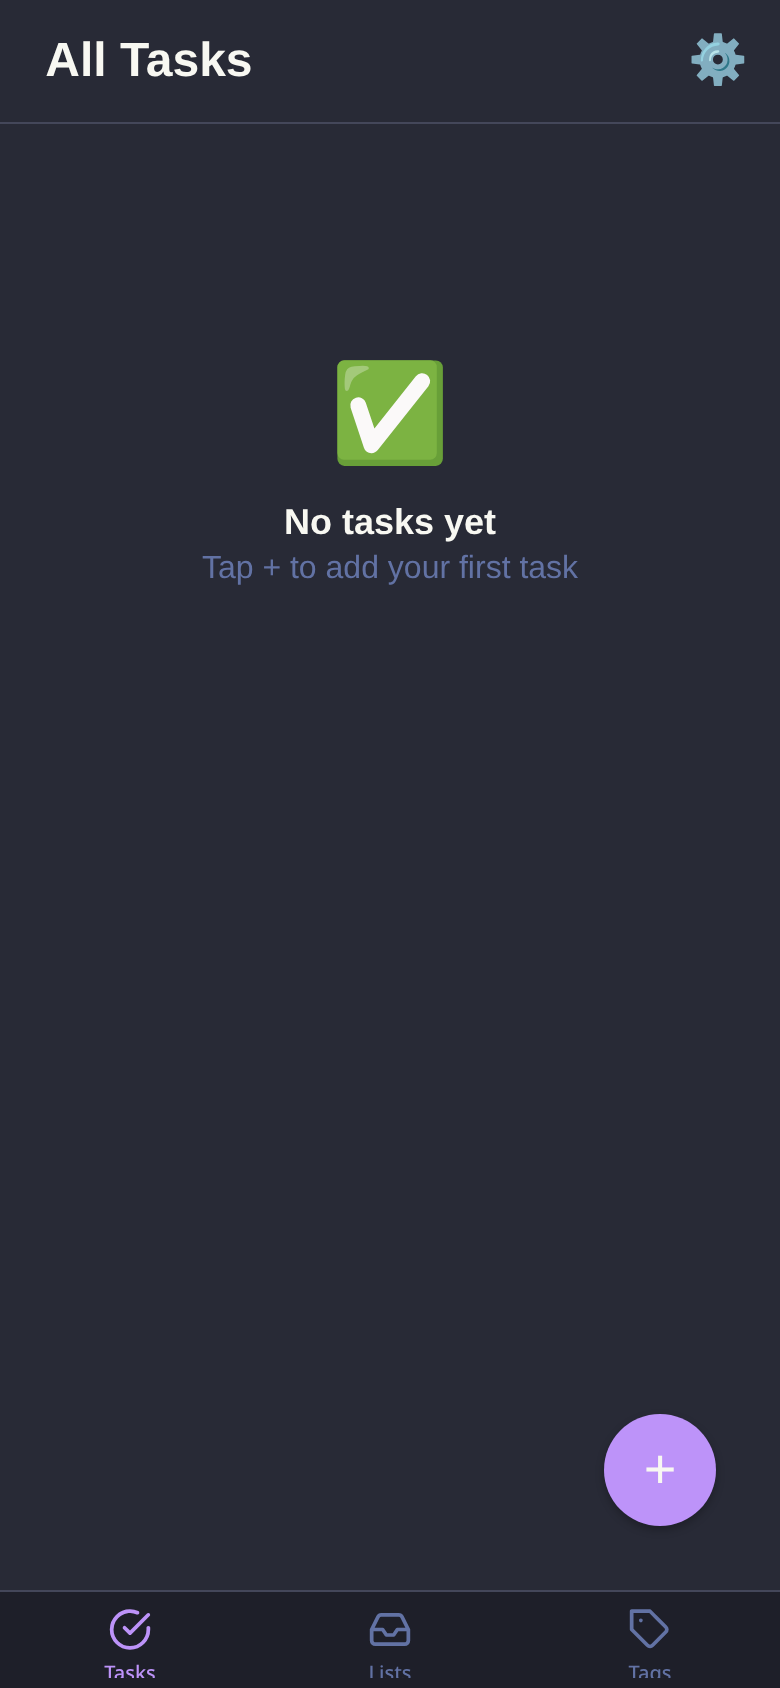
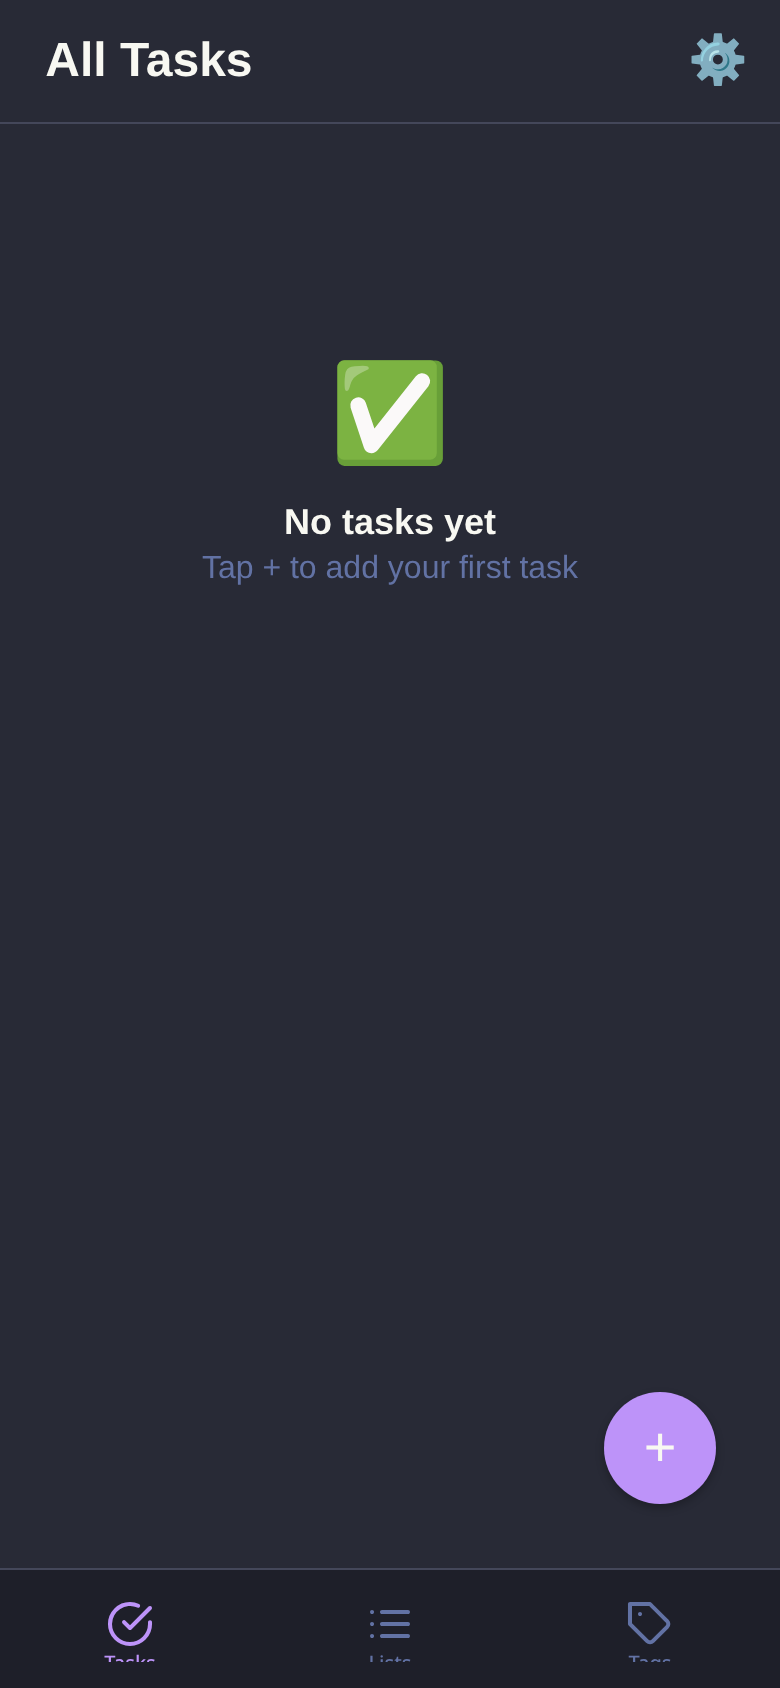
style: improve tab bar to look more native
- Increase icon size to 24px for better touch targets
- Add proper iOS/Android height and padding adjustments
- Use circle/check-circle toggle for active Tasks tab
- Change Lists icon from inbox to list (more recognizable)
- Remove header shadows for cleaner look
- Update label font size and weight
- Update screenshots

Changed region(s): [[0.7692, 0.8009, 0.9231, 1.0], [0.1231, 0.9242, 0.2154, 1.0], [0.4615, 0.9242, 0.5231, 1.0]]

diff --git a/src/app/(tabs)/_layout.tsx b/src/app/(tabs)/_layout.tsx
@@ -1,5 +1,6 @@
 // Tab layout with bottom navigation
 
+import { Platform } from 'react-native';
 import { Tabs } from 'expo-router';
 import { Feather } from '@expo/vector-icons';
 import { useTheme } from '../../theme/ThemeContext';
@@ -15,11 +16,31 @@ export default function TabLayout() {
         tabBarStyle: {
           backgroundColor: colors.backgroundSecondary,
           borderTopColor: colors.backgroundTertiary,
+          borderTopWidth: 0.5,
+          height: Platform.OS === 'ios' ? 85 : 60,
+          paddingBottom: Platform.OS === 'ios' ? 28 : 8,
+          paddingTop: 8,
+          elevation: 0,
+          shadowOpacity: 0,
+        },
+        tabBarLabelStyle: {
+          fontSize: 10,
+          fontWeight: '500',
+        },
+        tabBarIconStyle: {
+          marginBottom: -2,
         },
         headerStyle: {
           backgroundColor: colors.backgroundSecondary,
+          elevation: 0,
+          shadowOpacity: 0,
+          borderBottomWidth: 0.5,
+          borderBottomColor: colors.backgroundTertiary,
         },
         headerTintColor: colors.foreground,
+        headerTitleStyle: {
+          fontWeight: '600',
+        },
       }}
     >
       <Tabs.Screen
@@ -27,8 +48,12 @@ export default function TabLayout() {
         options={{
           title: 'Tasks',
           headerShown: false,
-          tabBarIcon: ({ color }) => (
-            <Feather name="check-circle" size={22} color={color} />
+          tabBarIcon: ({ color, focused }) => (
+            <Feather 
+              name={focused ? 'check-circle' : 'circle'} 
+              size={24} 
+              color={color} 
+            />
           ),
         }}
       />
@@ -37,7 +62,7 @@ export default function TabLayout() {
         options={{
           title: 'Lists',
           tabBarIcon: ({ color }) => (
-            <Feather name="inbox" size={22} color={color} />
+            <Feather name="list" size={24} color={color} />
           ),
         }}
       />
@@ -46,7 +71,7 @@ export default function TabLayout() {
         options={{
           title: 'Tags',
           tabBarIcon: ({ color }) => (
-            <Feather name="tag" size={22} color={color} />
+            <Feather name="tag" size={24} color={color} />
           ),
         }}
       />
